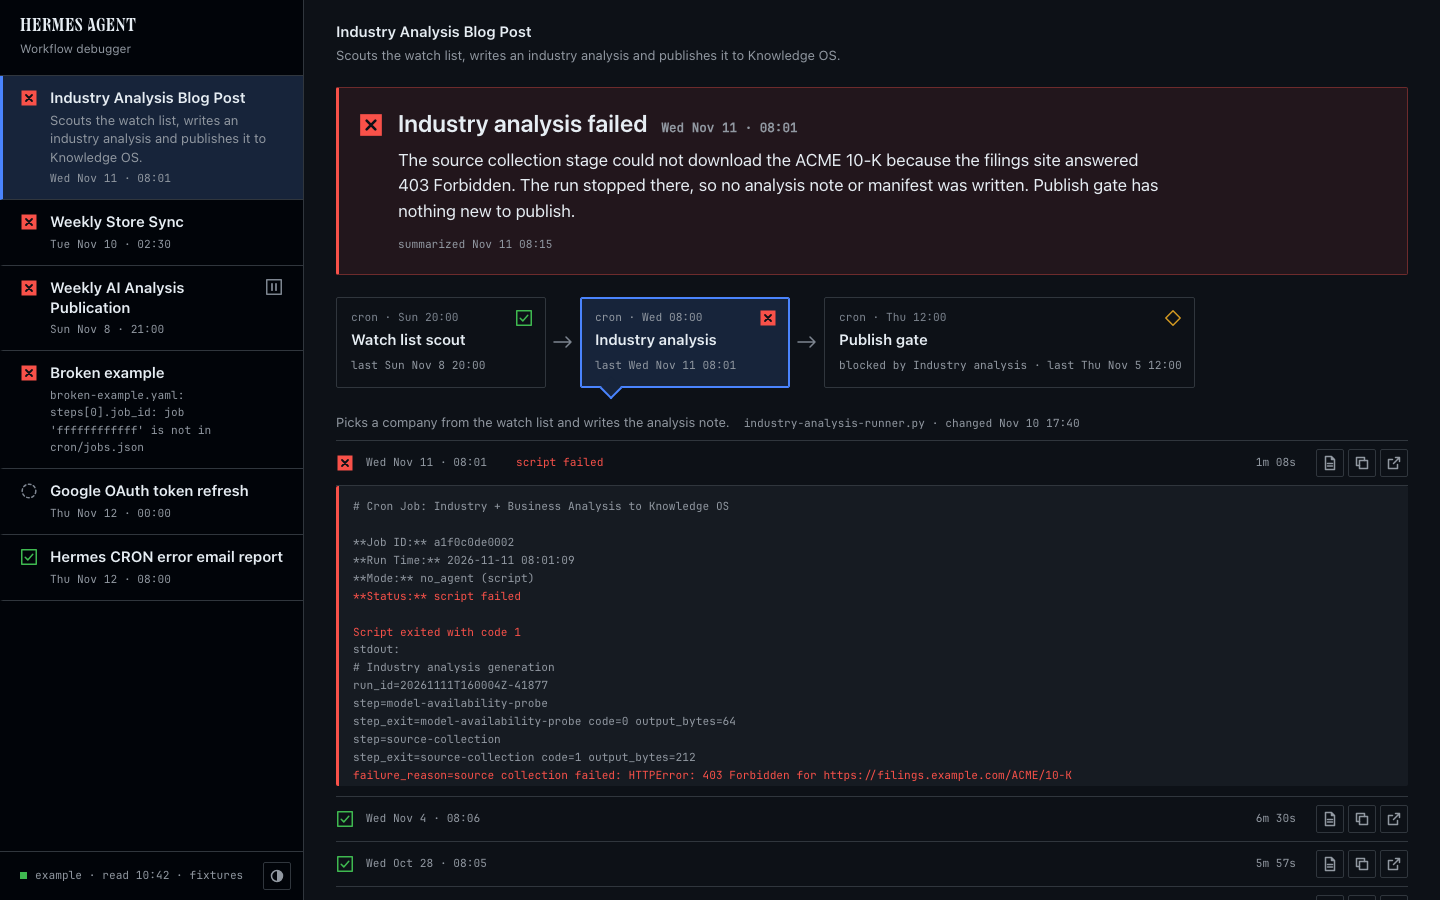
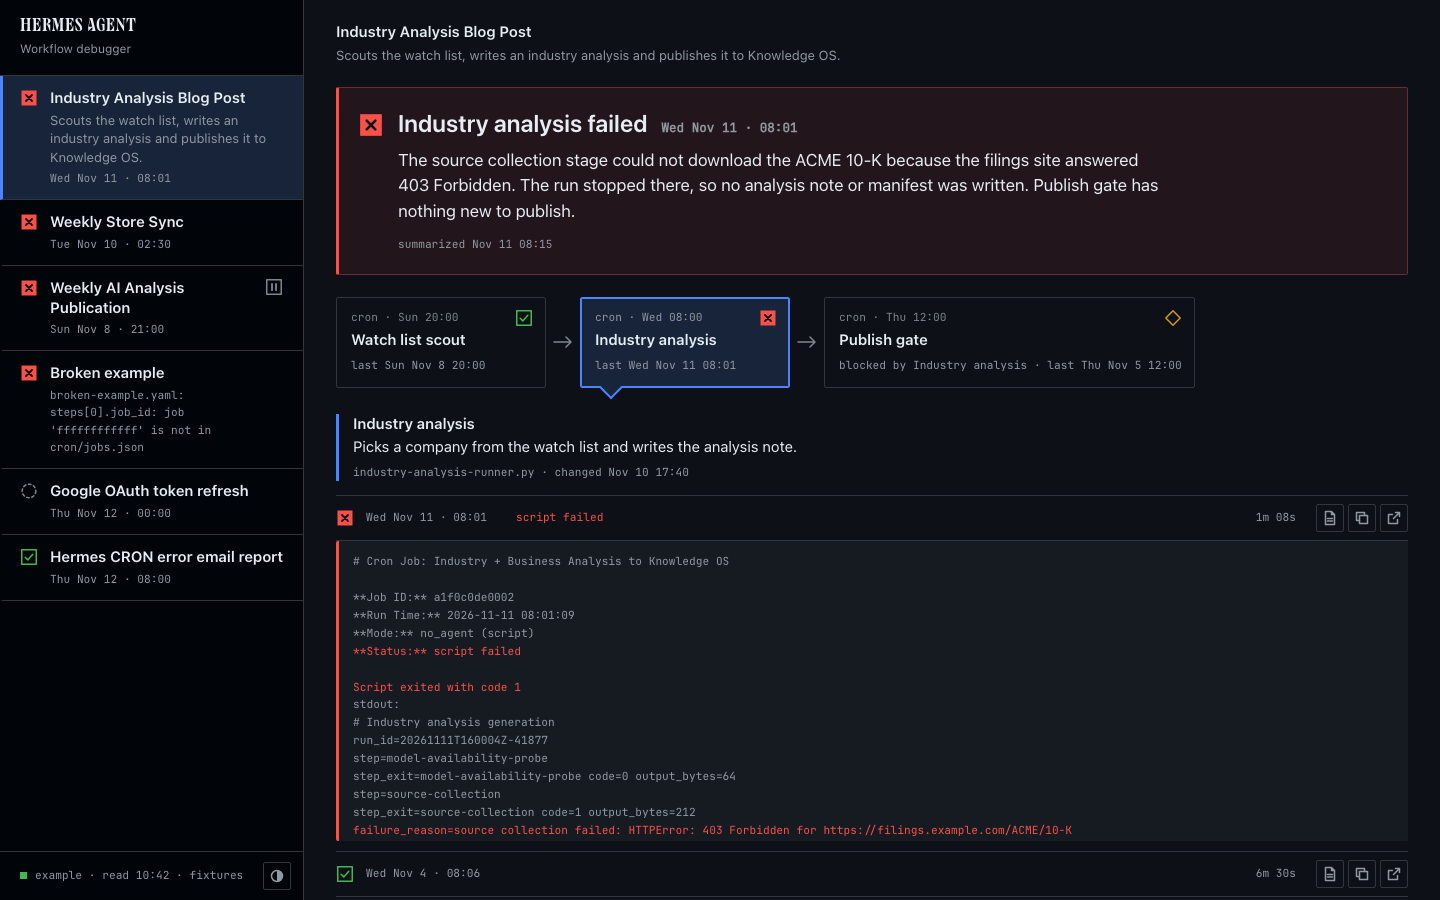
Selected step: name and description in primary text above its traces

diff --git a/web/app.css b/web/app.css
@@ -100,9 +100,12 @@ h1 { font-weight: 600; font-size: 15px; line-height: 1.25; }
 .gap { width: 12px; height: 12px; flex: none; }
 
 /* selected step: source line and trace list */
-.src { display: flex; flex-wrap: wrap; align-items: baseline; gap: 2px 14px; margin-top: 24px; }
-.src .what { color: var(--text-2); font-size: .93rem; }
-.traces { margin-top: 8px; border-top: 1px solid var(--border); }
+.src { margin-top: 26px; padding-left: 14px; border-left: 3px solid var(--primary); }
+.src .what-name { font-size: 15px; font-weight: 600; line-height: 1.3; }
+.src .what { color: var(--text); font-size: 15px; line-height: 1.5; margin-top: 2px; max-width: 72ch; }
+.src .mono { display: block; margin-top: 6px; overflow-wrap: anywhere; }
+.traces, #detail > .detail { margin-top: 14px; }
+.traces { border-top: 1px solid var(--border); }
 .t { display: flex; align-items: center; border-bottom: 1px solid var(--border); }
 .t:hover { background: var(--card); }
 .tog { flex: 1; min-width: 0; display: grid; grid-template-columns: 30px 150px minmax(0, 1fr) 72px; align-items: center; padding: 13px 12px 13px 0; }

diff --git a/web/app.js b/web/app.js
@@ -193,9 +193,12 @@ function traceRow(st, t) {
   return h;
 }
 function tracesHTML(st) {
-  const src = (st.description ? `<span class="what">${esc(st.description)}</span>` : '') + (st.source
-    ? `<span class="mono">${esc(st.source.script)} · changed ${esc(short(st.source.changed_at))}</span>`
-    : `<span class="mono">no script on file</span>`);
+  const script = st.source
+    ? `${esc(st.source.script)} · changed ${esc(short(st.source.changed_at))}`
+    : 'no script on file';
+  const src = `<h2 class="what-name">${esc(st.title)}</h2>` +
+    (st.description ? `<p class="what">${esc(st.description)}</p>` : '') +
+    `<span class="mono">${script}</span>`;
   const list = S.traces[st.job_id];
   let body;
   if (!list) body = `<div class="detail"><div class="empty mono">reading</div></div>`;

diff --git a/tools/browser_checks.py b/tools/browser_checks.py
@@ -176,6 +176,9 @@ def main(out: Path) -> int:
         check("AC-11", "no session link when the output has no session ID", acts == ["Output", "Copy run ID", "CRON source industry-analysis-runner.py"], " | ".join(acts))
         src = b.js("T.txt('.src')")
         check("AC-11", "step shows its script and when it last changed", "industry-analysis-runner.py · changed Nov 10 17:40" in src, src)
+        check("AC-11", "selected step's name and description are shown in primary text at 15px above its traces",
+              b.js("T.txt('.src .what-name')") == "Industry analysis" and b.js("T.txt('.src .what')") == "Picks a company from the watch list and writes the analysis note."
+              and b.js("T.css('.src .what', 'color')") == "rgb(230, 237, 243)" and b.js("T.css('.src .what', 'fontSize')") == "15px")
         href = b.js("document.querySelector('.t .act a').getAttribute('href')")
         check("AC-11", "step links to its CRON source", href == "/api/source/a1f0c0de0002", href)
         collect_contrast(b, "dark", "F1")
